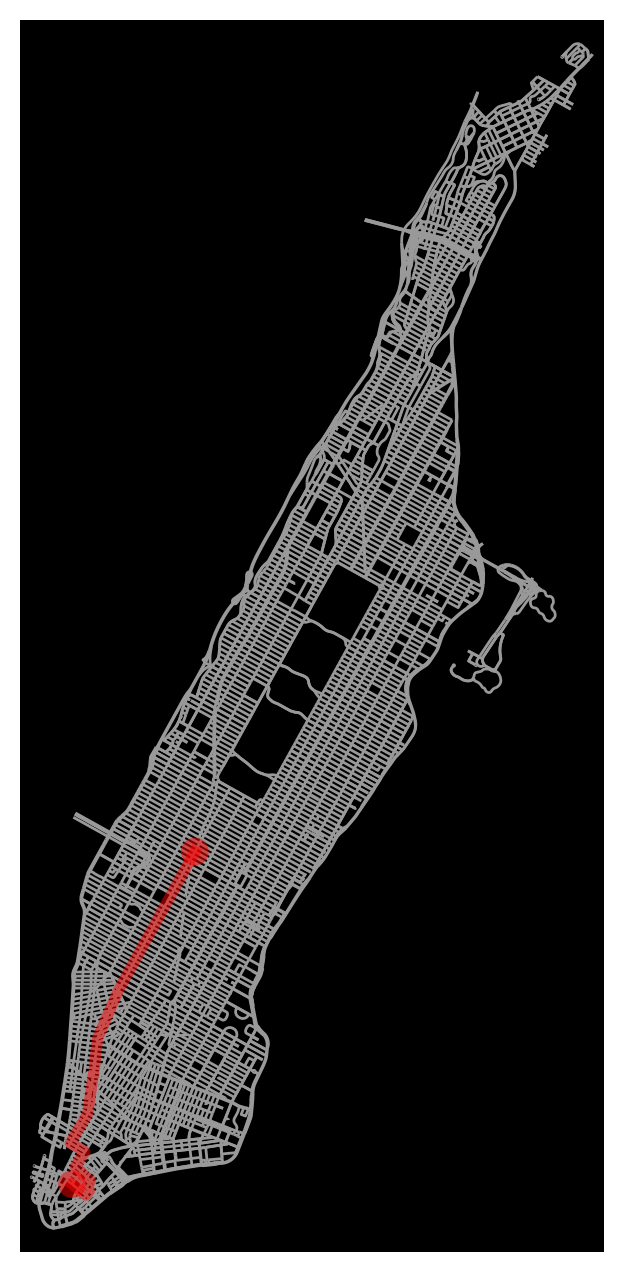
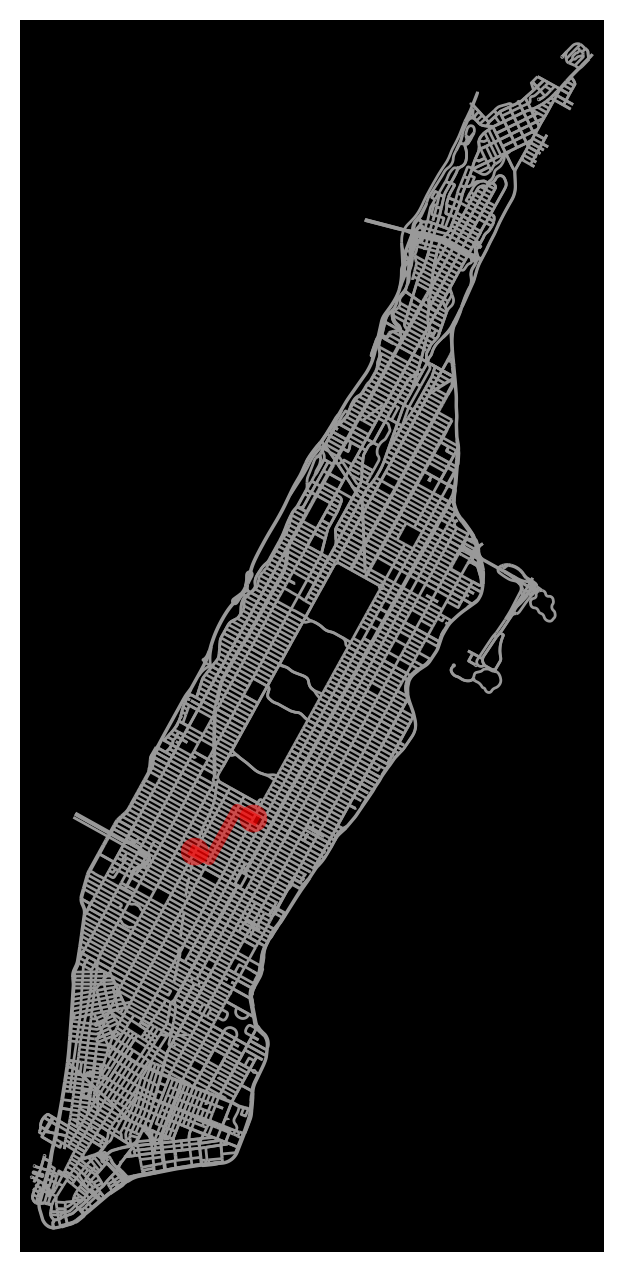
add

Changed region(s): [[0.0915, 0.7052, 0.2745, 0.9505], [0.3355, 0.6132, 0.427, 0.6745], [0.2745, 0.6745, 0.3355, 0.7052]]

diff --git a/src/state_representation/manhatten_fast.py b/src/state_representation/manhatten_fast.py
@@ -34,7 +34,8 @@ GEOCODE_DIR.mkdir(parents=True, exist_ok=True)
 
 ADDRESS_BOOK = {
     "origin": "Times Square, Manhattan, NY, USA",
-    "destination": "Wall Street, Manhattan, NY, USA",
+    # "destination": "Wall Street, Manhattan, NY, USA",
+    "destination": "Trump Tower, Manhattan, NY, USA",
 }
 
 FALLBACK_SPEED_KPH = 20.0
